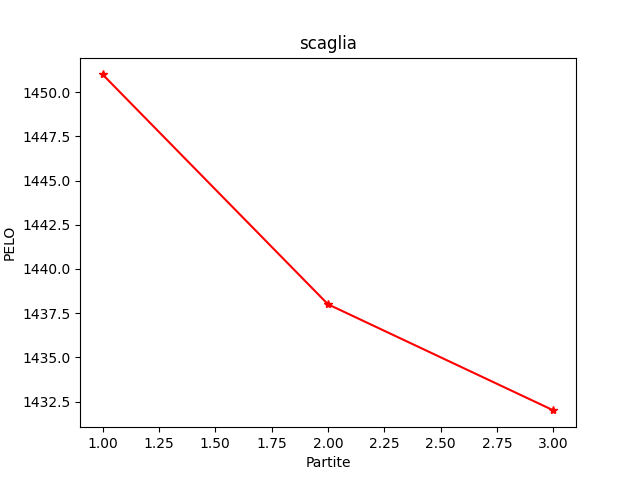
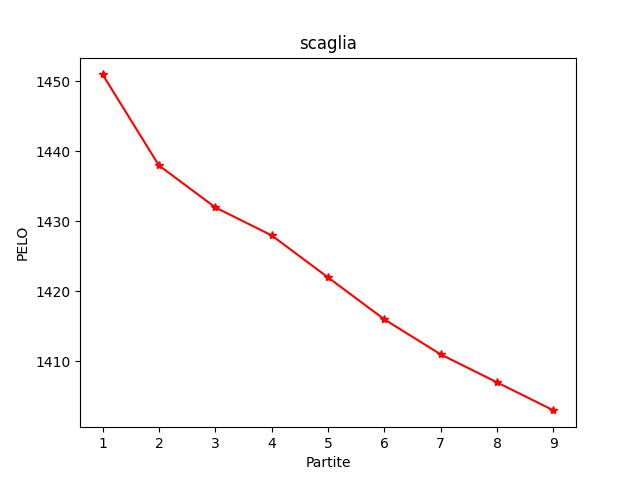
Add files via upload

diff --git a/index.htm b/index.htm
@@ -17,21 +17,21 @@
   <tbody>
     <tr>
       <th>0</th>
-      <td><a href='zontini.png'>zontini</a></td>
-      <td>1723</td>
-      <td>276</td>
-      <td>146</td>
-      <td>2764</td>
-      <td>2701</td>
+      <td><a href='castellani.png'>castellani</a></td>
+      <td>1770</td>
+      <td>506</td>
+      <td>234</td>
+      <td>4809</td>
+      <td>5021</td>
     </tr>
     <tr>
       <th>1</th>
-      <td><a href='castellani.png'>castellani</a></td>
-      <td>1661</td>
-      <td>497</td>
-      <td>225</td>
-      <td>4706</td>
-      <td>4959</td>
+      <td><a href='zontini.png'>zontini</a></td>
+      <td>1655</td>
+      <td>285</td>
+      <td>149</td>
+      <td>2844</td>
+      <td>2789</td>
     </tr>
     <tr>
       <th>2</th>
@@ -108,11 +108,11 @@
     <tr>
       <th>10</th>
       <td><a href='scaglia.png'>scaglia</a></td>
-      <td>1432</td>
-      <td>15</td>
+      <td>1403</td>
+      <td>21</td>
       <td>4</td>
-      <td>119</td>
-      <td>161</td>
+      <td>152</td>
+      <td>227</td>
     </tr>
     <tr>
       <th>11</th>
